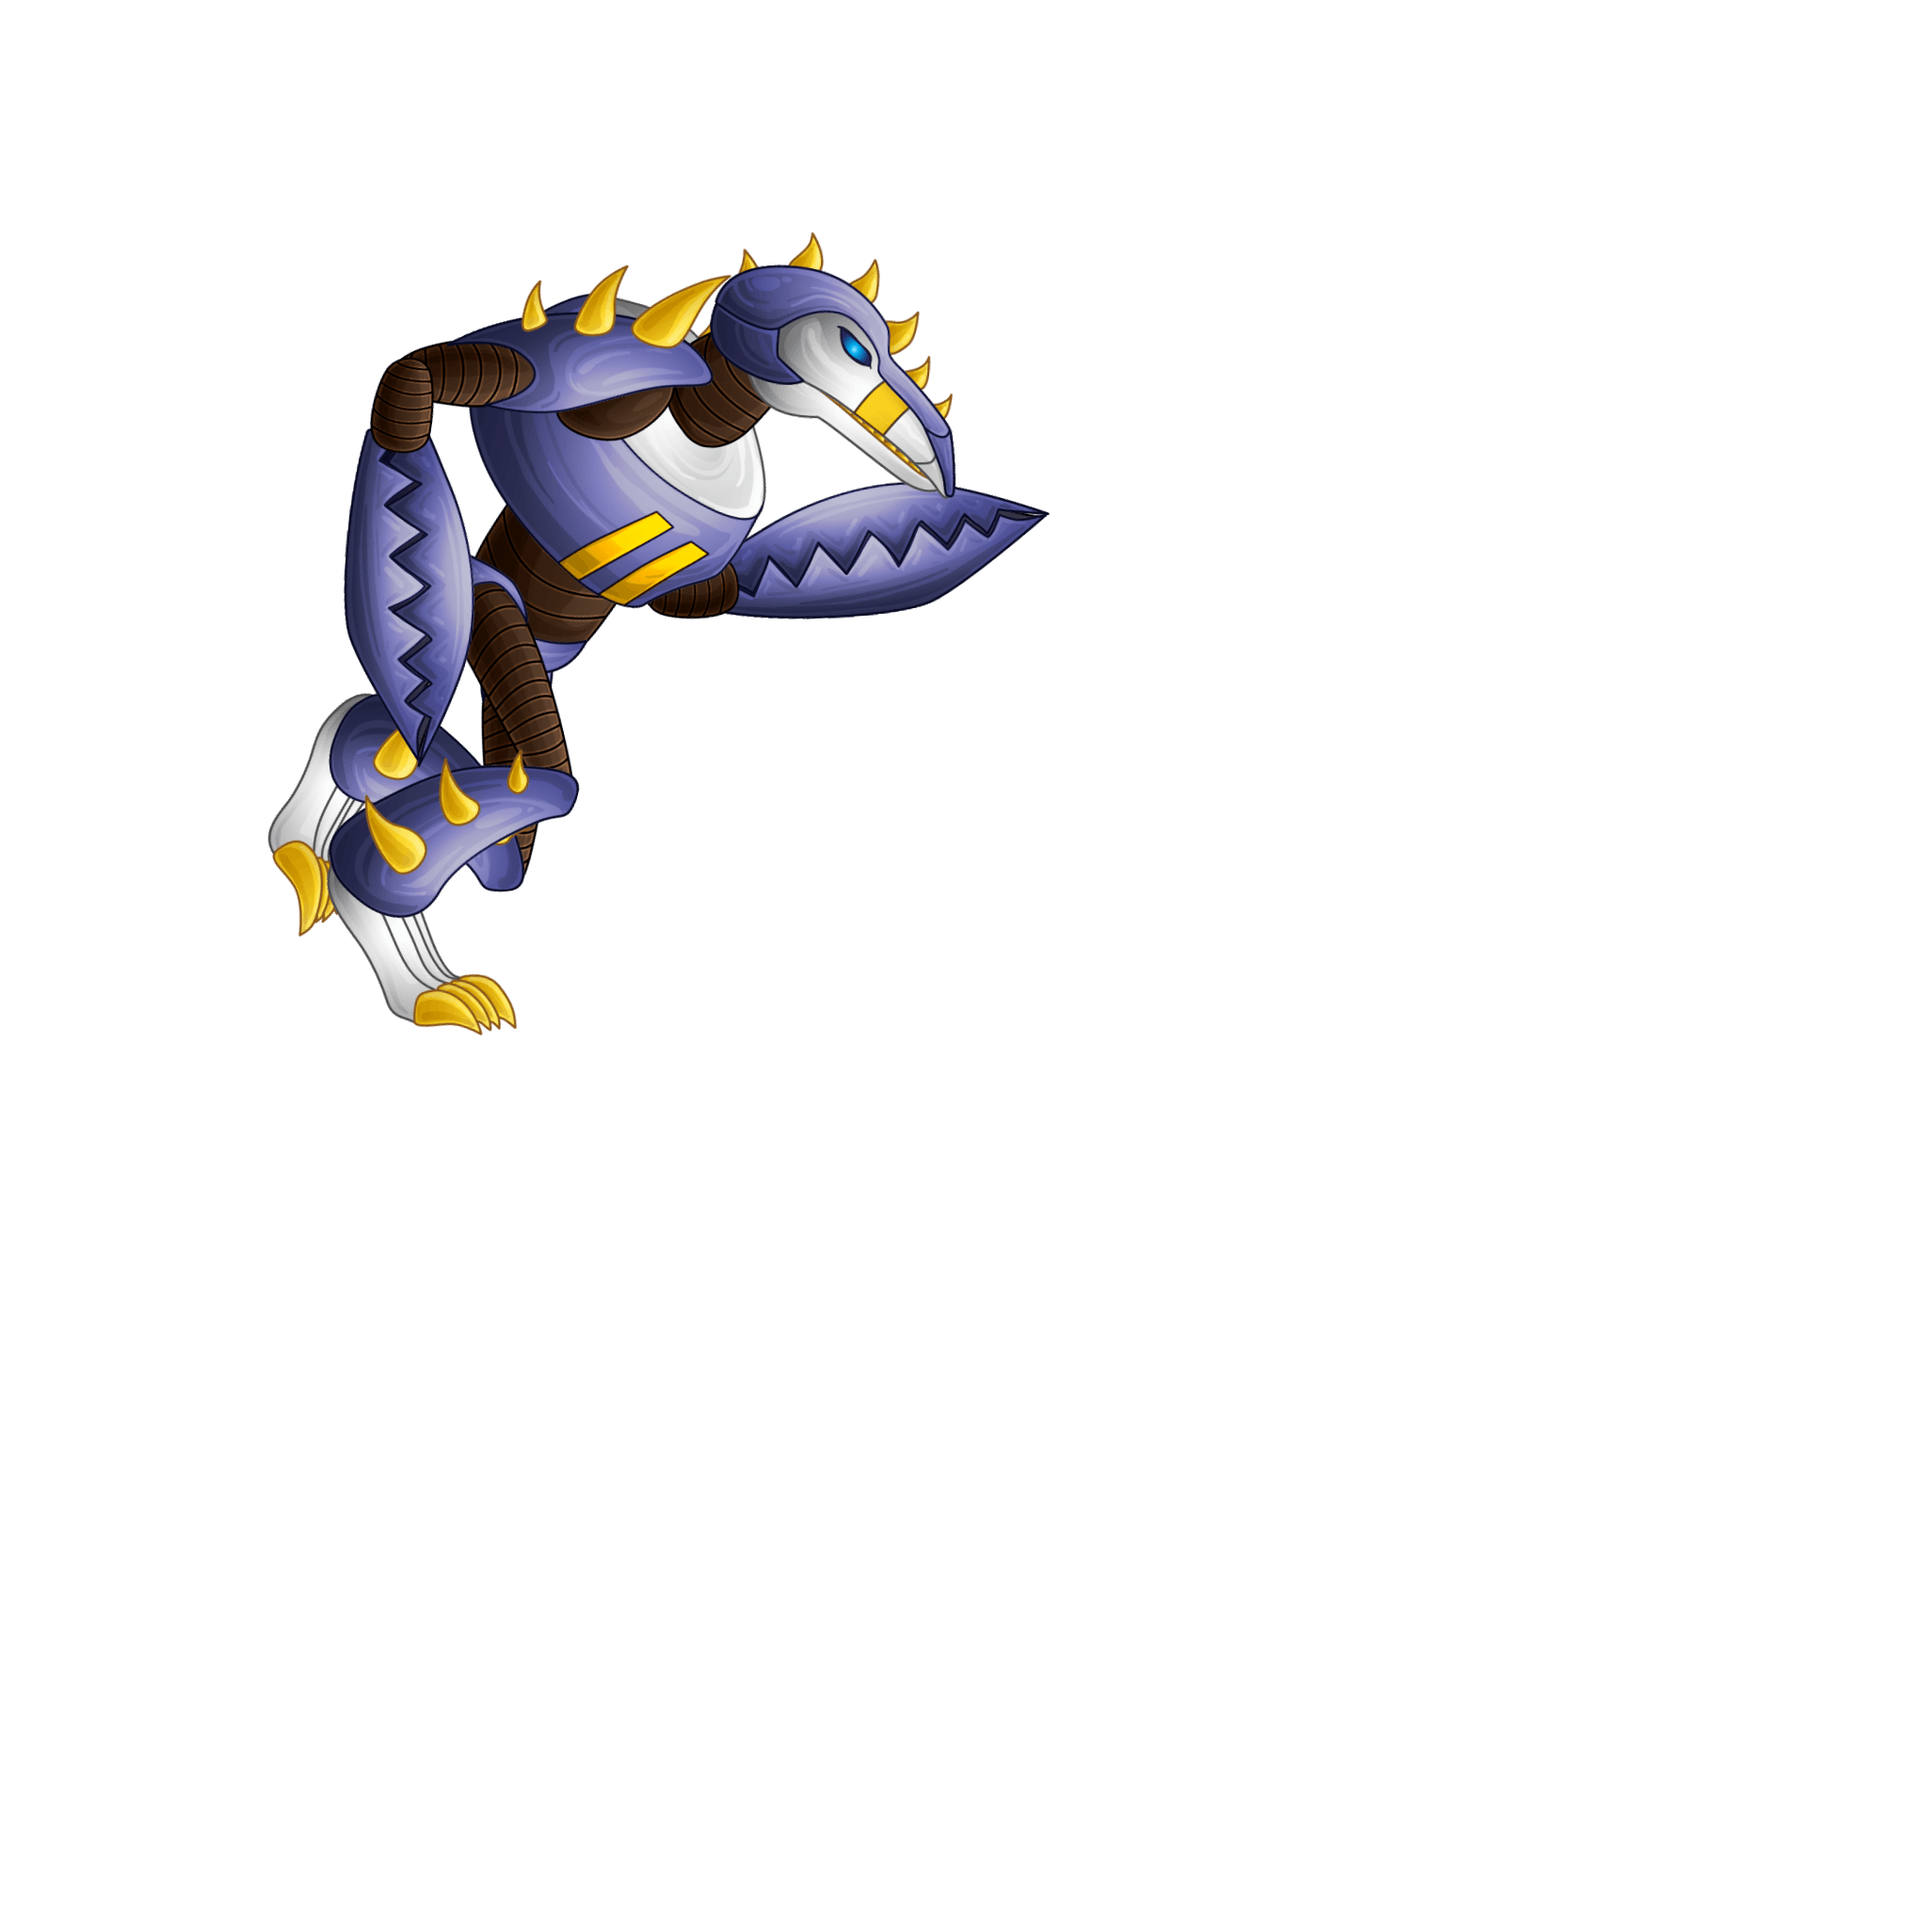
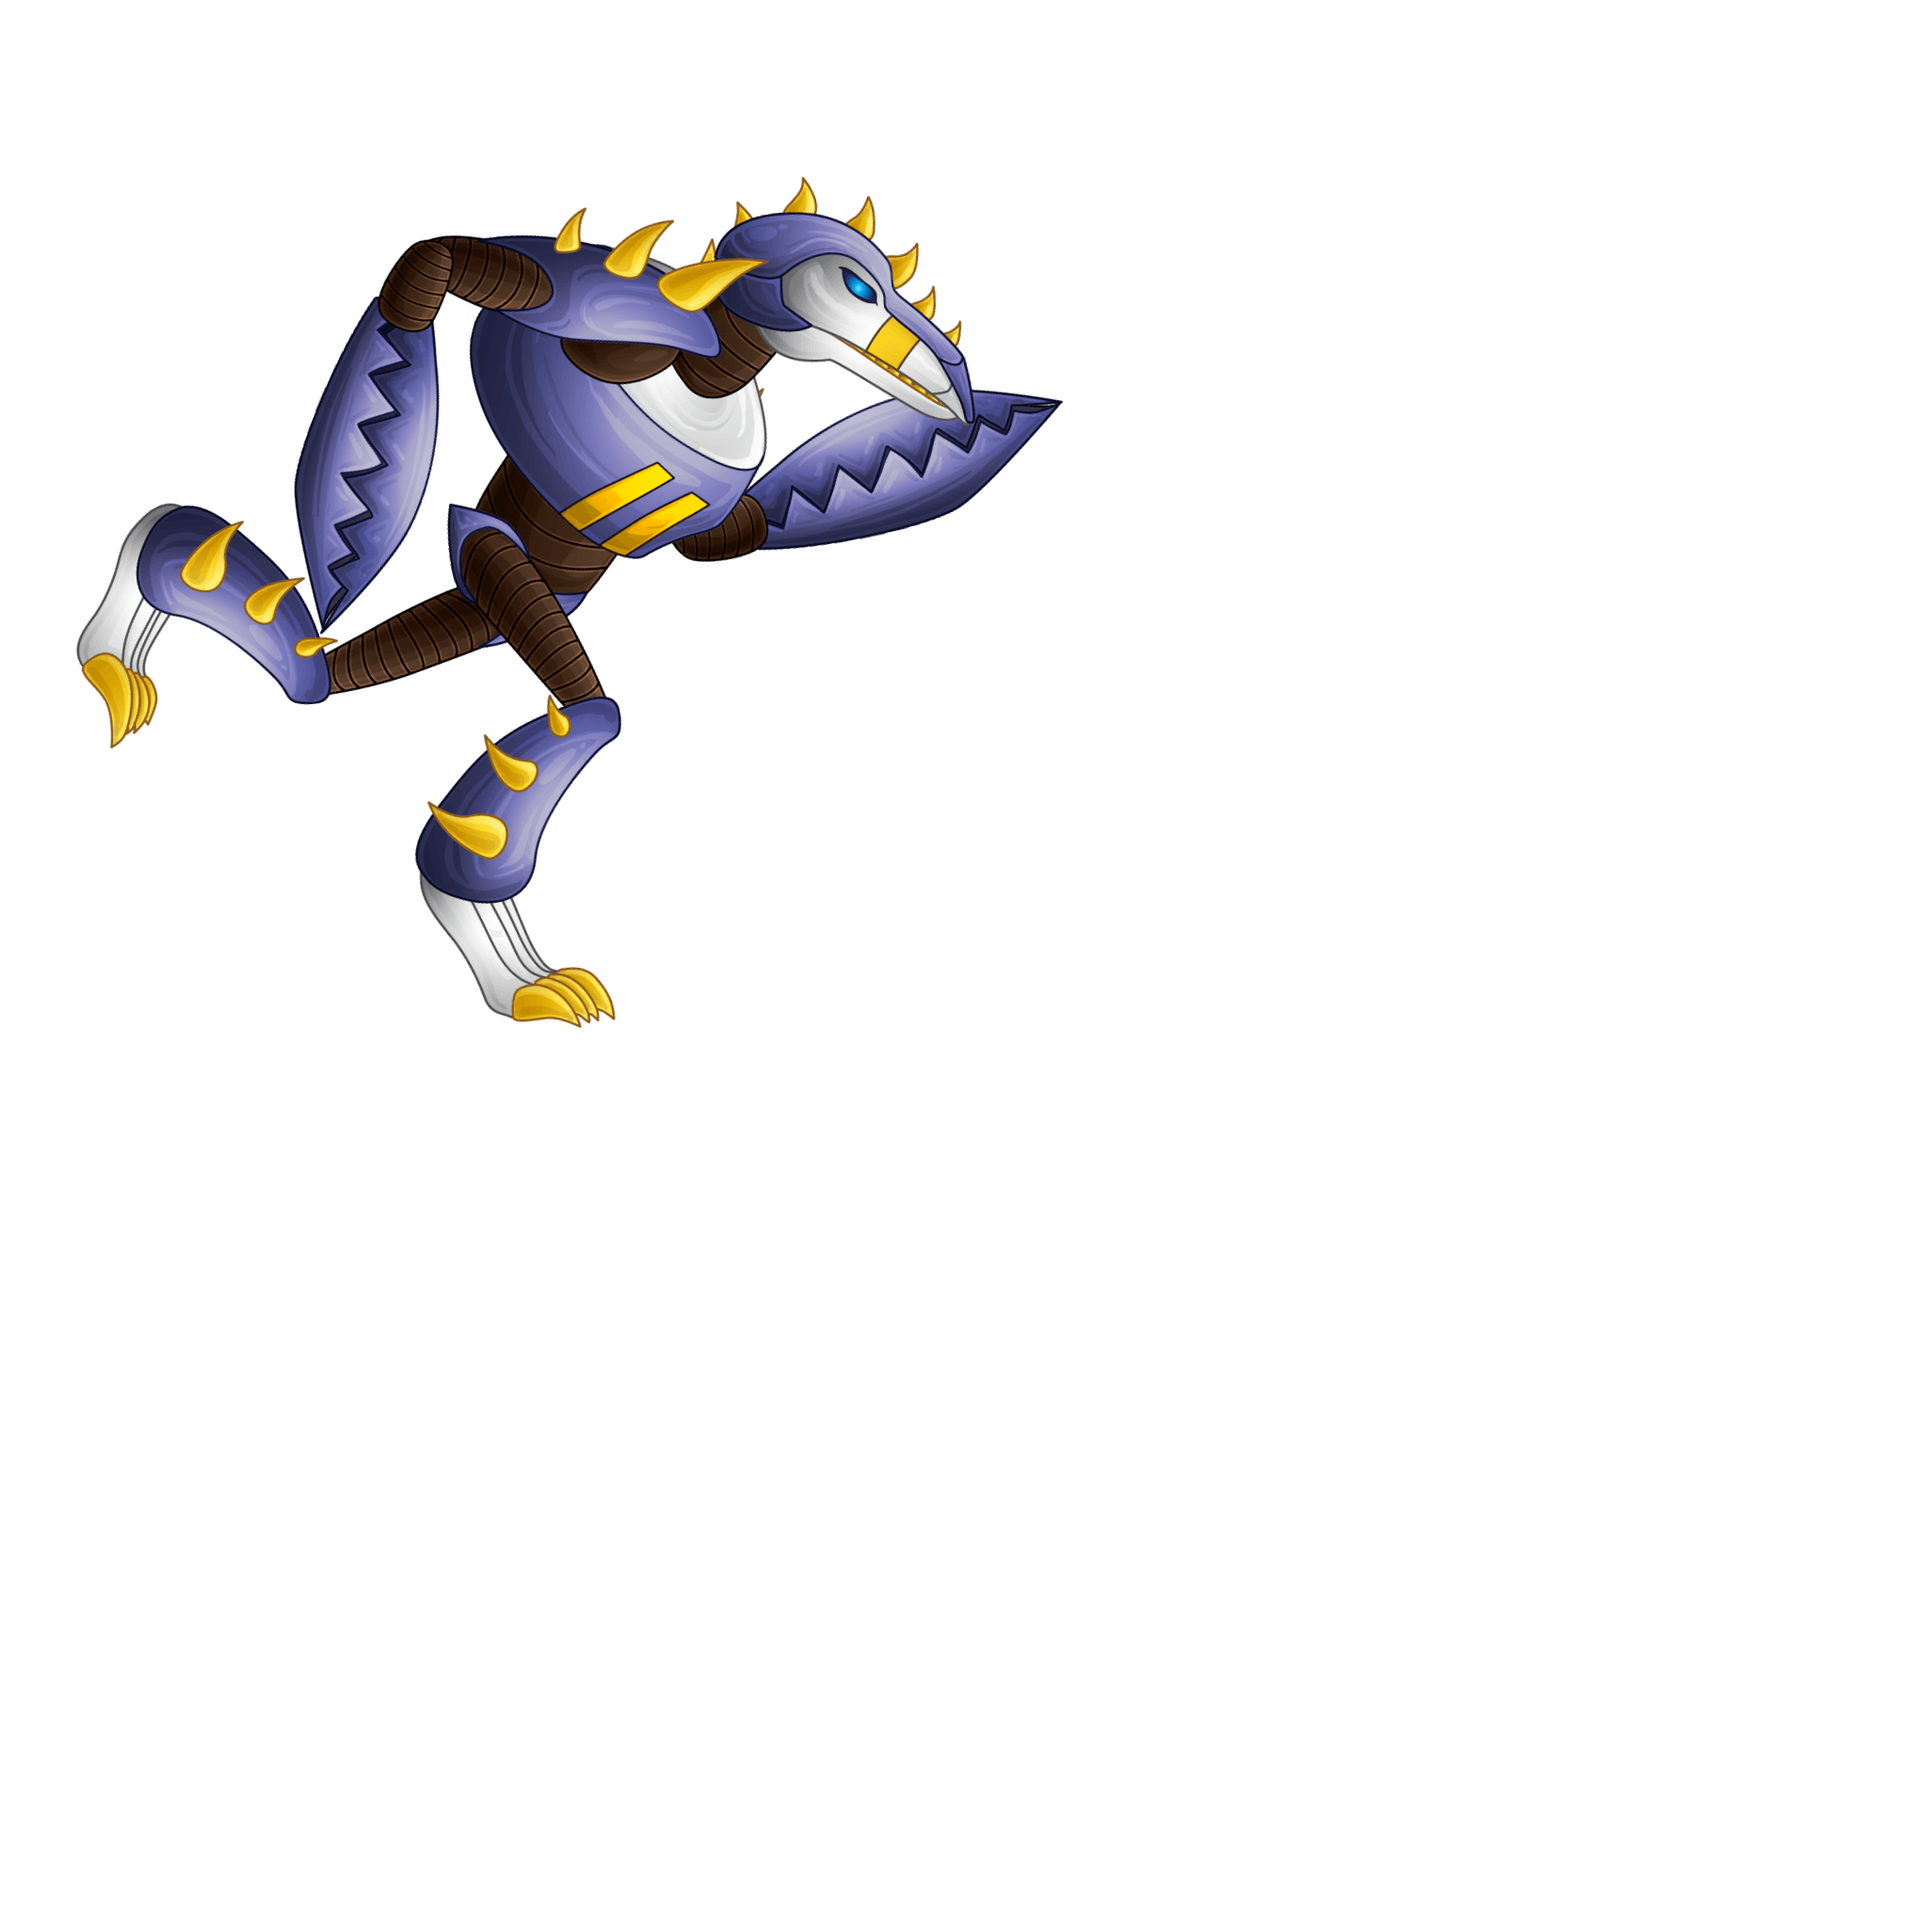
Add turn to run animation

Changed region(s): [[0.0312, 0.0938, 0.5625, 0.5312]]

diff --git a/core/src/main/kotlin/org/mackclan/yorg/systems/Movement.kt b/core/src/main/kotlin/org/mackclan/yorg/systems/Movement.kt
@@ -60,7 +60,6 @@ class Movement : EntitySystem() {
                     val desiredTile =
                             tiles.get(moveLocation.x.toInt() + moveLocation.y.toInt() * state.viewport.worldWidth.toInt())
                     if (desiredTile != null && controlled.actionPoints > 0) {
-                        animation.activeAnimation = Animations.run
                         animatablePosition.path.clear()
                         animatablePosition.path.addAll(smoothPath(getPath(tiles, moveLocation)))
                         val target = Vector2(animatablePosition.path.get(0).x.toFloat(), animatablePosition.path.get(0).y.toFloat())
@@ -69,6 +68,10 @@ class Movement : EntitySystem() {
                                     .sub(animatablePosition.position)
                                     .nor()
                                     .scl(animatablePosition.speed)
+                        val newFacing = if (animatablePosition.velocity.x < 1) Directions.left else Directions.right
+                        animation.activeAnimation = if (newFacing == animation.facing) Animations.run else Animations.turn_to_run
+                        animation.facing = newFacing
+                        animation.time = 0f
                         controlled.desiredMove = null
                         controlled.actionPoints -= 1
                         if (controlled.actionPoints <= 0) spendUnit(controlled, state)
@@ -79,24 +82,34 @@ class Movement : EntitySystem() {
 
             // Animate movement of any moving unit
             if (animatablePosition.path.isNotEmpty()){
-                val target = Vector2(animatablePosition.path.get(0).x.toFloat(), animatablePosition.path.get(0).y.toFloat())
-                val scaledMove = animatablePosition.velocity.cpy().scl(deltaTime)
-                val nextPos = animatablePosition.position.cpy().add(scaledMove)
+                if (animation.activeAnimation == Animations.turn_to_run){
+                    if(animation.animations.get(Animations.turn_to_run.ordinal).isAnimationFinished(animation.time)){
+                        animation.activeAnimation = Animations.run
+                        animation.time = 0f
+                    }
+                } else if(animation.activeAnimation == Animations.run){
+                    animation.facing = if (animatablePosition.velocity.x < 1) Directions.left else Directions.right
 
-                if (nextPos.dst(target) <= animatablePosition.position.dst(target)) {
-                    animatablePosition.position = nextPos.cpy()
-                } else {
-                    animatablePosition.path.removeAt(0)
-                    animatablePosition.position = target.cpy()
-                    if(animatablePosition.path.isEmpty()){
-                        animation.activeAnimation = Animations.idle
+                    val target = Vector2(animatablePosition.path.get(0).x.toFloat(), animatablePosition.path.get(0).y.toFloat())
+                    val scaledMove = animatablePosition.velocity.cpy().scl(deltaTime)
+                    val nextPos = animatablePosition.position.cpy().add(scaledMove)
+
+                    if (nextPos.dst(target) <= animatablePosition.position.dst(target)) {
+                        animatablePosition.position = nextPos.cpy()
                     } else {
-                        val newTarget = Vector2(animatablePosition.path.get(0).x.toFloat(), animatablePosition.path.get(0).y.toFloat())
-                        animatablePosition.velocity = newTarget
-                                    .cpy()
-                                    .sub(animatablePosition.position)
-                                    .nor()
-                                    .scl(animatablePosition.speed)
+                        animatablePosition.path.removeAt(0)
+                        animatablePosition.position = target.cpy()
+                        if(animatablePosition.path.isEmpty()){
+                            animation.activeAnimation = Animations.idle
+                            animation.time = 0f
+                        } else {
+                            val newTarget = Vector2(animatablePosition.path.get(0).x.toFloat(), animatablePosition.path.get(0).y.toFloat())
+                            animatablePosition.velocity = newTarget
+                                        .cpy()
+                                        .sub(animatablePosition.position)
+                                        .nor()
+                                        .scl(animatablePosition.speed)
+                        }
                     }
                 }
             }

diff --git a/core/src/main/kotlin/org/mackclan/yorg/systems/Animation.kt b/core/src/main/kotlin/org/mackclan/yorg/systems/Animation.kt
@@ -8,6 +8,7 @@ import com.badlogic.gdx.utils.viewport.ScreenViewport
 import org.mackclan.yorg.components.AnimatablePosition
 import org.mackclan.yorg.components.AnimationComponent
 import org.mackclan.yorg.components.GameState
+import org.mackclan.yorg.components.Directions
 
 class Animation : EntitySystem() {
     private lateinit var entities: ImmutableArray<Entity>
@@ -34,7 +35,7 @@ class Animation : EntitySystem() {
             val animation = animationComponentMap.get(entity)
             val position = animatablePositionMap.get(entity)
             val frame = animation.animations[animation.activeAnimation.ordinal].getKeyFrame(animation.time, true)
-            if (position.velocity.x < 1)
+            if (animation.facing == Directions.left)
                 batch.draw(frame, position.position.x + 1, position.position.y, -1f, 1f)
             else
                 batch.draw(frame, position.position.x, position.position.y, 1f, 1f)

diff --git a/core/src/main/kotlin/org/mackclan/yorg/components/AnimationComponent.kt b/core/src/main/kotlin/org/mackclan/yorg/components/AnimationComponent.kt
@@ -8,17 +8,26 @@ import com.badlogic.gdx.graphics.g2d.TextureRegion
 class AnimationComponent(fileName: String, var time: Float = 0f) : Component {
     val animations : List<Animation<TextureRegion>>
     var activeAnimation : Animations = Animations.idle
+    var facing : Directions = Directions.right
     init {
         val atlas: TextureAtlas = TextureAtlas(fileName)
         animations = listOf(
             Animation<TextureRegion>(0.1667f, atlas.findRegions("idle"), Animation.PlayMode.LOOP),
             Animation<TextureRegion>(0.0834f, atlas.findRegions("run"), Animation.PlayMode.LOOP),
+            Animation<TextureRegion>(0.0417f, atlas.findRegions("turn_to_run"), Animation.PlayMode.NORMAL),
         )
     }
 }
 
 enum class Animations {
     idle,
-    run
+    run,
+    turn_to_run,
 }
 
+enum class Directions {
+    up,
+    right,
+    down,
+    left
+}
